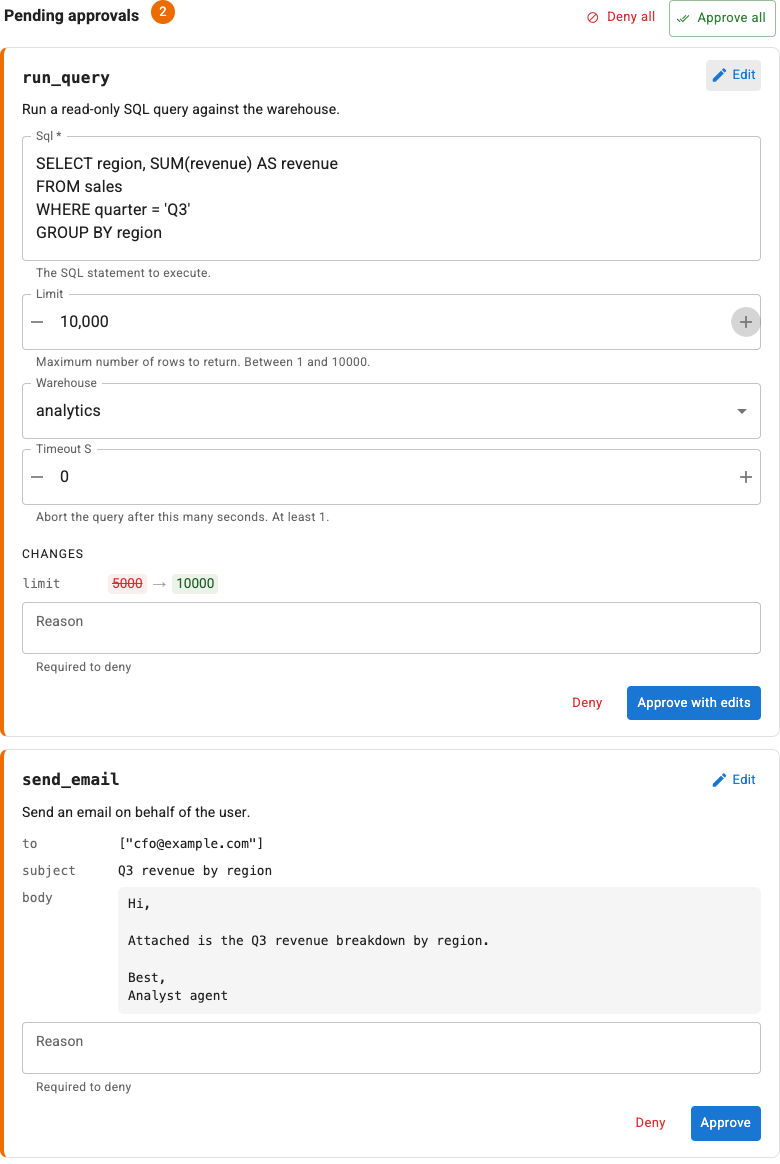
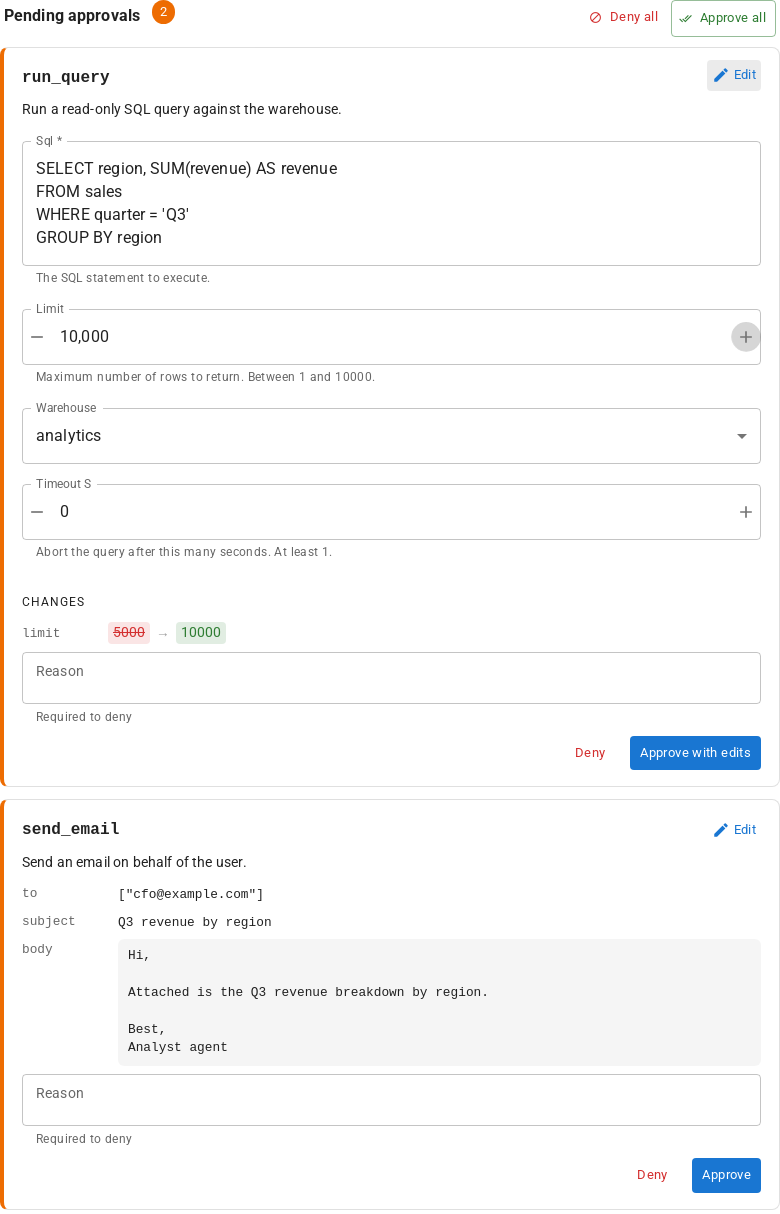
docs: Regenerate screenshots after UI polish
Regenerate all 14 screenshots under docs/assets/images/ with
scripts/docs_screenshots.py, updating span-view to capture
AgentDrawer.show_run and dropping the obsolete SQL height cap.

Assisted-by: Antigravity:Gemini-4-Neon

diff --git a/scripts/docs_screenshots.py b/scripts/docs_screenshots.py
@@ -56,11 +56,9 @@ from panel_agents import (
     Mention,
     ModelChoice,
     RunState,
-    SpanView,
 )
 from panel_agents import events as ev
 from panel_agents.adapters.pydantic_ai import AgentRunner
-from panel_agents.components.renderers import render
 
 REGISTRY: dict[str, callable] = {}
 
@@ -388,16 +386,9 @@ def chat_document_layout(pw):
         sql_app.agent, state, deps=sql_app.AnalystDeps(con, state),
         approval_policy=sql_app.POLICY, run_kwargs={"model": model},
     )
-    def cell_renderer(artifact):
-        # The default SQL renderer sizes its editor for long queries; cap it
-        # here so a short one does not leave a tall empty box in the cell.
-        if artifact.kind == "sql":
-            return render(artifact.value, kind="sql", height=110)
-        return render(artifact.value, kind=artifact.kind)
-
     chat = AgentChat(
         runner=runner, layout="document", assistant="Analyst",
-        cell_renderer=cell_renderer, feed_params={"height": 560},
+        feed_params={"height": 560},
     )
 
     s = open_page(pw, 1100, 660)
@@ -502,13 +493,13 @@ def chat_replay_shot(pw):
 def span_view_shot(pw):
     import examples.chat_replay as cr
 
-    span = SpanView(cr.state, run_id="run-1", on_artifact=lambda artifact_id, number: None)
-    dialog = pn.ui.Dialog(span, title="How this was made", width=820, open=True)
+    drawer = AgentDrawer(state=cr.state, open=True)
+    drawer.show_run("run-1")
 
-    s = open_page(pw, 900, 760)
+    s = open_page(pw, 920, 780)
     try:
-        serve(s.page, dialog)
-        s.page.get_by_text("Q3 revenue by region").wait_for()
+        serve(s.page, pn.ui.Page(main=[drawer]))
+        s.page.get_by_role("dialog").get_by_text("How this was made").wait_for()
         s.page.mouse.move(0, 0)
         s.page.wait_for_timeout(300)
         shoot(s.page, "span-view.png")
